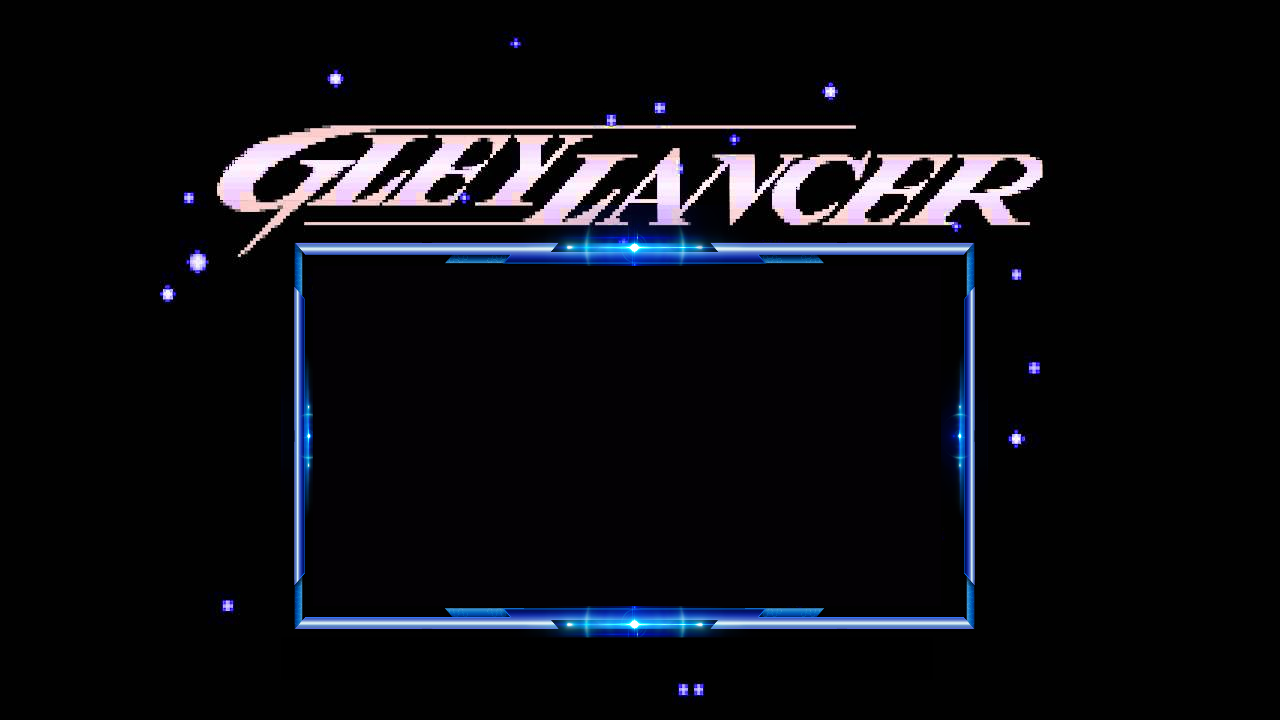
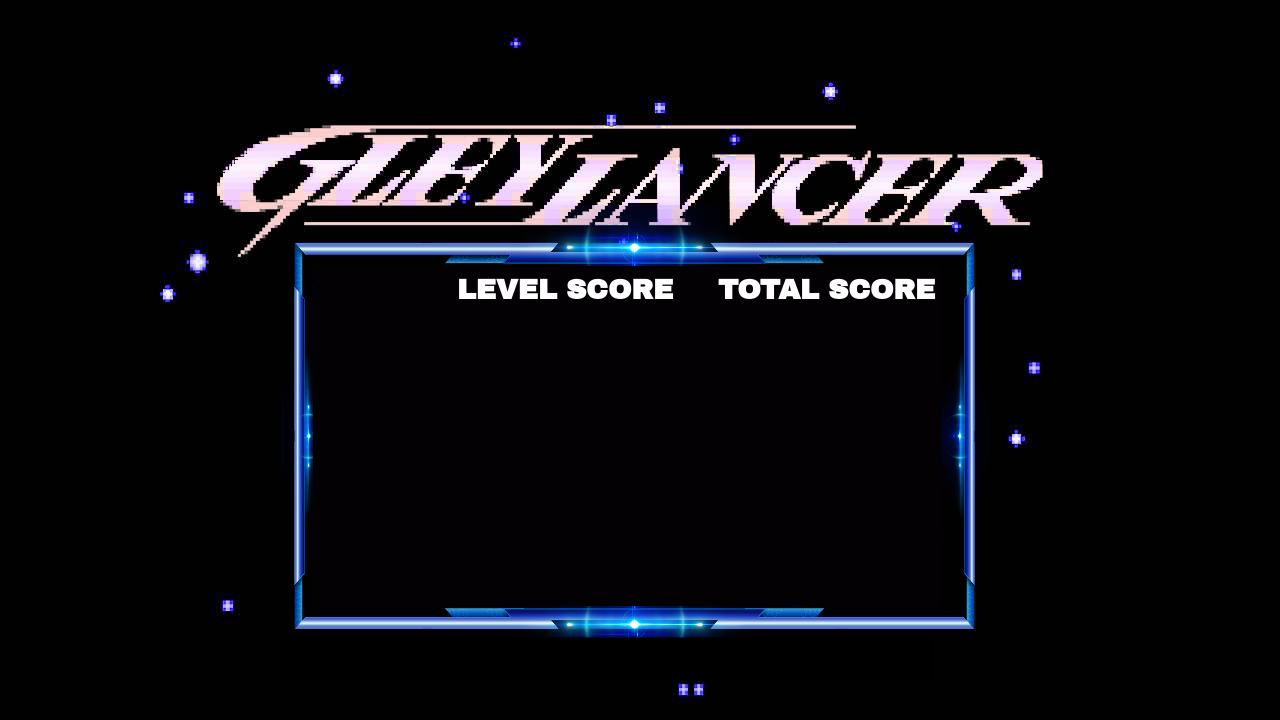
se modifican estadisticas final de nivel

Changed region(s): [[0.5625, 0.3667, 0.75, 0.4278], [0.3438, 0.3667, 0.5312, 0.4278]]

diff --git a/src/client/screenManager/graphics/GraphicsScoreBoard.cpp b/src/client/screenManager/graphics/GraphicsScoreBoard.cpp
@@ -4,8 +4,8 @@ GraphicsScoreBoard::GraphicsScoreBoard(){
     this->bar_ = new Image(GameProvider::getWidth(),200,"assets/scoreBoard/bar.png");
 
     this-> playerImages_ = new unordered_map < elementType_t, Image*> ();
-    int playerImagesW = 140;
-    int playerImagesH = 80;
+    int playerImagesW = 100;
+    int playerImagesH = 70;
     this-> playerImages_->emplace(PLAYER_1,new Image(playerImagesW,playerImagesH,"assets/scoreBoard/players/player1.jpg"));
     this-> playerImages_->emplace(PLAYER_1_OUT,new Image(playerImagesW,playerImagesH,"assets/scoreBoard/players/player1_D.jpg"));
     this-> playerImages_->emplace(PLAYER_1_G, new Image(playerImagesW,playerImagesH,"assets/scoreBoard/players/player1_G.jpg"));
@@ -29,7 +29,7 @@ GraphicsScoreBoard::GraphicsScoreBoard(){
 
     this->health_ = new unordered_map <int, Image*>();
     int energyW = 400;
-    int energyH = 30;
+    int energyH = 20;
     this->health_->emplace(0,new Image(energyW,energyH,"assets/scoreBoard/energy/energy0.png"));
     this->health_->emplace(1,new Image(energyW,energyH,"assets/scoreBoard/energy/energy1.png"));
     this->health_->emplace(2,new Image(energyW,energyH,"assets/scoreBoard/energy/energy2.png"));
@@ -45,10 +45,10 @@ GraphicsScoreBoard::GraphicsScoreBoard(){
 
     this->scores_ = new unordered_map <elementType_t,TextBox*>();
     string path = "assets/scoreBoard/scoreButton.png";
-    this->scores_->emplace(PLAYER_1, new TextBox(300,10,300,50,path.c_str(),path.c_str()));
-    this->scores_->emplace(PLAYER_2, new TextBox(300,110,300,50,path.c_str(),path.c_str()));
-    this->scores_->emplace(PLAYER_3, new TextBox(910,10,300,50,path.c_str(),path.c_str()));
-    this->scores_->emplace(PLAYER_4, new TextBox(910,110,300,50,path.c_str(),path.c_str()));
+    this->scores_->emplace(PLAYER_1, new TextBox(300,20,300,50,path.c_str(),path.c_str()));
+    this->scores_->emplace(PLAYER_2, new TextBox(300,105,300,50,path.c_str(),path.c_str()));
+    this->scores_->emplace(PLAYER_3, new TextBox(910,20,300,50,path.c_str(),path.c_str()));
+    this->scores_->emplace(PLAYER_4, new TextBox(910,105,300,50,path.c_str(),path.c_str()));
 
     this->scores_->at(PLAYER_1)->setCenteringParameters(50,10,5,5);
     this->scores_->at(PLAYER_2)->setCenteringParameters(50,10,5,5);
@@ -70,28 +70,32 @@ GraphicsScoreBoard::GraphicsScoreBoard(){
     player1.playerImage = PLAYER_1_G;
     player1.lives = 3;
     player1.health = 100;
-    player1.score = 0;
+    player1.levelScore = 0;
+    player1.totalScore = 0;
     this->players_->emplace(PLAYER_1,player1);
 
     playerState_t player2;
     player2.playerImage = PLAYER_2_G;
     player2.lives = 3;
     player2.health = 100;
-    player2.score = 0;
+    player2.levelScore = 0;
+    player2.totalScore = 0;
     this->players_->emplace(PLAYER_2,player2);
 
     playerState_t player3;
     player3.playerImage = PLAYER_3_G;
     player3.lives = 3;
     player3.health = 100;
-    player3.score = 0;
+    player3.levelScore = 0;
+    player3.totalScore = 0;
     this->players_->emplace(PLAYER_3,player3);
 
     playerState_t player4;
     player4.playerImage = PLAYER_4_G;
     player4.lives = 3;
     player4.health = 100;
-    player4.score = 0;
+    player4.levelScore = 0;
+    player4.totalScore = 0;
     this->players_->emplace(PLAYER_4,player4);
 
 }
@@ -103,12 +107,14 @@ void GraphicsScoreBoard::setScore(elementType_t player, int score){
     scores_->at(player)->setText(cadena);
 }
 
-void GraphicsScoreBoard::updateScore(elementType_t playerImage,unsigned int lives,int health,int score){
+void GraphicsScoreBoard::updateScore(elementType_t playerImage,unsigned int lives,int health,int levelScore,int totalScore){
+    
     playerState_t player;
     player.playerImage = playerImage;
     player.lives= lives;
     player.health = health;
-    player.score = score;
+    player.levelScore = levelScore;
+    player.totalScore = totalScore;
     
     if (playerImage == PLAYER_1 || playerImage == PLAYER_1_OUT){
         this->players_->erase(PLAYER_1);
@@ -133,7 +139,6 @@ void GraphicsScoreBoard::updateScore(elementType_t playerImage,unsigned int live
 
 
 int GraphicsScoreBoard::getHealthImageNumber(int health){
-    cout<<health<<endl;
     if (health == 0)
         return 0;
     else if (0 < health && health < 15)
@@ -168,21 +173,20 @@ void GraphicsScoreBoard::update(){
     //vida
     this->lives_->at(player1.lives)->renderCopy(190,20);
    //puntaje
-    this->setScore(PLAYER_1,player1.score);
+    this->setScore(PLAYER_1,player1.totalScore);
     this->scores_->at(PLAYER_1)->update(0,0,false);
     //salud
     int healthImage1 = this->getHealthImageNumber(player1.health);
-    cout <<healthImage1<< endl;
-    this-> health_->at(healthImage1)->renderCopy(190,60);
+    this-> health_->at(healthImage1)->renderCopy(190,75);
 
     //********Actualizo el jugador 2**********
     playerState_t player2 = this->players_->at(PLAYER_2);
     //imagen 
-    this->playerImages_->at(player2.playerImage)->renderCopy(35,110);
+    this->playerImages_->at(player2.playerImage)->renderCopy(35,105);
     //vida
-    this->lives_->at(player2.lives)->renderCopy(190,110);
+    this->lives_->at(player2.lives)->renderCopy(190,105);
     //puntaje
-    this->setScore(PLAYER_2,player2.score);
+    this->setScore(PLAYER_2,player2.totalScore);
     this->scores_->at(PLAYER_2)->update(0,0,false);
     //salud
     int healthImage2 = this->getHealthImageNumber(player2.health);
@@ -195,20 +199,20 @@ void GraphicsScoreBoard::update(){
     //vida
     this->lives_->at(player3.lives)->renderCopy(800,20);
     //puntaje
-    this->setScore(PLAYER_3,player3.score);
+    this->setScore(PLAYER_3,player3.totalScore);
     this->scores_->at(PLAYER_3)->update(0,0,false);
     //salud
     int healthImage3 = this->getHealthImageNumber(player3.health);
-    this-> health_->at(healthImage3)->renderCopy(800,60);
+    this-> health_->at(healthImage3)->renderCopy(800,75);
     
     //********Actualizo el jugador 4**********
     playerState_t player4 = this->players_->at(PLAYER_4);
     //imagen 
-    this->playerImages_->at(player4.playerImage)->renderCopy(650,110);
+    this->playerImages_->at(player4.playerImage)->renderCopy(650,105);
     //vida
     this->lives_->at(player4.lives)->renderCopy(800,110);
     //puntaje
-    this->setScore(PLAYER_4,player4.score);
+    this->setScore(PLAYER_4,player4.totalScore);
     this->scores_->at(PLAYER_4)->update(0,0,false);
     //salud
     int healthImage4 = this->getHealthImageNumber(player4.health);
@@ -217,52 +221,74 @@ void GraphicsScoreBoard::update(){
 }
 
 void GraphicsScoreBoard::showScores(){
-    cout << "entro"<<endl;
     
     string path = "assets/scoreBoard/scoreButton.png";
     
     this->scoreTable_->renderCopy(0,0);
 
-    TextBox score1 = TextBox(550,300,400,80,path.c_str(),path.c_str());
-    TextBox score2 = TextBox(550,400,400,80,path.c_str(),path.c_str());
-    TextBox score3 = TextBox(550,500,400,80,path.c_str(),path.c_str());
-    TextBox score4 = TextBox(550,600,400,80,path.c_str(),path.c_str());
+    TextBox levelScore1 = TextBox(470,350,220,60,path.c_str(),path.c_str());
+    TextBox levelScore2 = TextBox(470,430,220,60,path.c_str(),path.c_str());
+    TextBox levelScore3 = TextBox(470,510,220,60,path.c_str(),path.c_str());
+    TextBox levelScore4= TextBox (470,590,220,60,path.c_str(),path.c_str());
 
-    score1.setCenteringParameters(50,10,5,5);
-    score2.setCenteringParameters(50,10,5,5);
-    score3.setCenteringParameters(50,10,5,5);
-    score4.setCenteringParameters(50,10,5,5);
+    levelScore1.setCenteringParameters(50,10,5,5);
+    levelScore2.setCenteringParameters(50,10,5,5);
+    levelScore3.setCenteringParameters(50,10,5,5);
+    levelScore4.setCenteringParameters(50,10,5,5);
     
-    score1.setFont("assets/Fonts/open-sans/OpenSans-Bold.ttf",40);
-    score2.setFont("assets/Fonts/open-sans/OpenSans-Bold.ttf",40);
-    score3.setFont("assets/Fonts/open-sans/OpenSans-Bold.ttf",40);
-    score4.setFont("assets/Fonts/open-sans/OpenSans-Bold.ttf",40);
+    levelScore1.setFont("assets/Fonts/open-sans/OpenSans-Bold.ttf",40);
+    levelScore2.setFont("assets/Fonts/open-sans/OpenSans-Bold.ttf",40);
+    levelScore3.setFont("assets/Fonts/open-sans/OpenSans-Bold.ttf",40);
+    levelScore4.setFont("assets/Fonts/open-sans/OpenSans-Bold.ttf",40);
+
+    TextBox totalScore1 = TextBox(720,350,220,60,path.c_str(),path.c_str());
+    TextBox totalScore2 = TextBox(720,430,220,60,path.c_str(),path.c_str());
+    TextBox totalScore3 = TextBox(720,510,220,60,path.c_str(),path.c_str());
+    TextBox totalScore4= TextBox(720,590,220,60,path.c_str(),path.c_str());
+
+    totalScore1.setCenteringParameters(50,10,5,5);
+    totalScore2.setCenteringParameters(50,10,5,5);
+    totalScore3.setCenteringParameters(50,10,5,5);
+    totalScore4.setCenteringParameters(50,10,5,5);
+    
+    totalScore1.setFont("assets/Fonts/open-sans/OpenSans-Bold.ttf",40);
+    totalScore2.setFont("assets/Fonts/open-sans/OpenSans-Bold.ttf",40);
+    totalScore3.setFont("assets/Fonts/open-sans/OpenSans-Bold.ttf",40);
+    totalScore4.setFont("assets/Fonts/open-sans/OpenSans-Bold.ttf",40);
 
 
     //Player1
     playerState_t player1 = this->players_->at(PLAYER_1);
-    this->playerImages_->at(player1.playerImage)->renderCopy(350,300);
-    score1.setText(static_cast<std::ostringstream*>(&(std::ostringstream() << player1.score))->str());
-    score1.update(0,0,false);
+    this->playerImages_->at(player1.playerImage)->renderCopy(350,350);
+    levelScore1.setText(static_cast<std::ostringstream*>(&(std::ostringstream() << player1.levelScore))->str());
+    levelScore1.update(0,0,false);
+    totalScore1.setText(static_cast<std::ostringstream*>(&(std::ostringstream() << player1.totalScore))->str());
+    totalScore1.update(0,0,false);
     
     //player2
     playerState_t player2 = this->players_->at(PLAYER_2);
-    this->playerImages_->at(player2.playerImage)->renderCopy(350,400);
-    score2.setText(static_cast<std::ostringstream*>(&(std::ostringstream() << player2.score))->str());
-    score2.update(0,0,false);
+    this->playerImages_->at(player2.playerImage)->renderCopy(350,430);
+    levelScore2.setText(static_cast<std::ostringstream*>(&(std::ostringstream() << player2.levelScore))->str());
+    levelScore2.update(0,0,false);
+    totalScore2.setText(static_cast<std::ostringstream*>(&(std::ostringstream() << player2.totalScore))->str());
+    totalScore2.update(0,0,false);
     
     
     //player3
     playerState_t player3 = this->players_->at(PLAYER_3);
-    this->playerImages_->at(player3.playerImage)->renderCopy(350,500);
-    score3.setText(static_cast<std::ostringstream*>(&(std::ostringstream() << player3.score))->str());
-    score3.update(0,0,false);
+    this->playerImages_->at(player3.playerImage)->renderCopy(350,510);
+    levelScore3.setText(static_cast<std::ostringstream*>(&(std::ostringstream() << player3.levelScore))->str());
+    levelScore3.update(0,0,false);
+    totalScore3.setText(static_cast<std::ostringstream*>(&(std::ostringstream() << player3.totalScore))->str());
+    totalScore3.update(0,0,false);
 
     //player4
     playerState_t player4 = this->players_->at(PLAYER_4);
-    this->playerImages_->at(player4.playerImage)->renderCopy(350,600);
-    score4.setText(static_cast<std::ostringstream*>(&(std::ostringstream() << player4.score))->str());
-    score4.update(0,0,false);
+    this->playerImages_->at(player4.playerImage)->renderCopy(350,590);
+    levelScore4.setText(static_cast<std::ostringstream*>(&(std::ostringstream() << player4.levelScore))->str());
+    levelScore4.update(0,0,false);
+    totalScore4.setText(static_cast<std::ostringstream*>(&(std::ostringstream() << player4.totalScore))->str());
+    totalScore4.update(0,0,false);
 
 }
 

diff --git a/src/common/models/events/EventScoreUpdate.cpp b/src/common/models/events/EventScoreUpdate.cpp
@@ -10,9 +10,7 @@ void EventScoreUpdate::update(){
     }
     else{
       Client * client = (Client*) Event::context_;
-      client->updateScore(this->typePlayer_,this->lives_,this->health_, this->scoreCurrent_);
-      cout << this->scoreCurrent_ << "-" << this->scoreAcc_ << endl;
-      //client ->updateBackgroundLayer(this->lives_, this->health_);
+      client->updateScore(this->typePlayer_,this->lives_,this->health_, this->scoreCurrent_,this->scoreAcc_);
       Logger::getInstance()->log(DEBUG, "Se ejecutó el evento ScoreUpdate");
     }
 }

diff --git a/src/client/screenManager/ScreenManager.cpp b/src/client/screenManager/ScreenManager.cpp
@@ -255,6 +255,6 @@ void ScreenManager::ServerDisconnection(){
     this->gameGraphics_->setImage(SERVER_DISCONNECTION);
 }
 
-void ScreenManager::updateScore(elementType_t player,unsigned int lives,int health,int score){
-    this->gameGraphics_->updateScore(player,lives,health,score);
+void ScreenManager::updateScore(elementType_t playerImage,unsigned int lives,int health,int levelScore,int totalScore){
+    this->gameGraphics_->updateScore(playerImage,lives,health,levelScore,totalScore);
 }

diff --git a/src/client/Client.cpp b/src/client/Client.cpp
@@ -154,6 +154,6 @@ void Client::runDetectEventThread(){
     this->eventsManager_-> RunDetectPlayerEventsThread();
 }
 
-void Client::updateScore(elementType_t player,unsigned int lives,int health,int score){
-    this->screenManager_->updateScore(player,lives,health,score);
+void Client::updateScore(elementType_t playerImage,unsigned int lives,int health,int levelScore,int totalScore){
+    this->screenManager_->updateScore(playerImage,lives,health,levelScore,totalScore);
 }

diff --git a/src/client/screenManager/graphics/GameGraphics.cpp b/src/client/screenManager/graphics/GameGraphics.cpp
@@ -192,6 +192,6 @@ void GameGraphics::setAudio(sceneScreen_t scene){
     }
 }
 
-void GameGraphics::updateScore(elementType_t player,unsigned int lives,int health,int score){
-    this->scoreBoard_->updateScore(player,lives,health,score);
+void GameGraphics::updateScore(elementType_t playerImage,unsigned int lives,int health,int levelScore,int totalScore){
+    this->scoreBoard_->updateScore(playerImage,lives,health,levelScore,totalScore);
 }

diff --git a/src/client/Client.h b/src/client/Client.h
@@ -56,7 +56,7 @@ class Client {
         void setLoginResponse(responseStatus_t response);
         void setLoggedInStatus();
         bool isLoggedIn();
-        void updateScore(elementType_t player,unsigned int lives,int health,int score);
+        void updateScore(elementType_t playerImage,unsigned int lives,int health,int levelScore,int totalScore);
         
         //transmition methods
         void sendMessage(Message* message);

diff --git a/src/client/screenManager/graphics/GraphicsScoreBoard.h b/src/client/screenManager/graphics/GraphicsScoreBoard.h
@@ -24,7 +24,7 @@ class GraphicsScoreBoard {
     public:  
         GraphicsScoreBoard();
         ~GraphicsScoreBoard();
-        void updateScore(elementType_t playerImage,unsigned int lives,int health,int score);
+        void updateScore(elementType_t playerImage,unsigned int lives,int health,int levelScore,int totalScore);
         void update();
         void showScores();
 };

diff --git a/src/client/screenManager/ScreenManager.h b/src/client/screenManager/ScreenManager.h
@@ -55,7 +55,7 @@ class ScreenManager{
         SDL_Renderer* getRenderer();
         void ServerDisconnection();
         GraphicsMenu* getGraphicsMenu();
-        void updateScore(elementType_t player,unsigned int lives,int health,int score);
+        void updateScore(elementType_t playerImage,unsigned int lives,int health,int levelScore,int totalScore);
 };
 
 #endif

diff --git a/src/client/screenManager/graphics/GameGraphics.h b/src/client/screenManager/graphics/GameGraphics.h
@@ -43,7 +43,7 @@ class GameGraphics {
         void setImage(sceneScreen_t scene);
         void setAudio(sceneScreen_t scene);
 
-        void updateScore(elementType_t player,unsigned int lives,int health,int score);
+        void updateScore(elementType_t playerImage,unsigned int lives,int health,int levelScore,int totalScore);
 };
 
 #endif

diff --git a/src/common/types.h b/src/common/types.h
@@ -324,7 +324,8 @@ typedef struct{
     elementType_t playerImage;
     unsigned int lives;
     int health;
-    int score;
+    int levelScore;
+    int totalScore;
 } playerState_t;
 
 #endif
